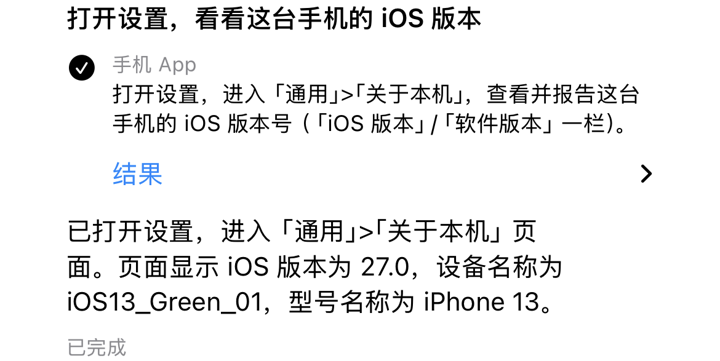
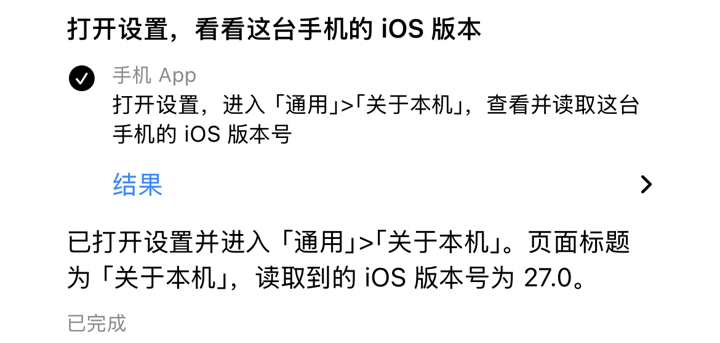
feat: 签名到期提醒与每晚自动重签、免费模型互为备用、结果跟随任务语言；文档补长期在线建议与免费模型截图

diff --git a/apps/ios/IPhoneUseRemoteTests/AgentTaskTests.swift b/apps/ios/IPhoneUseRemoteTests/AgentTaskTests.swift
@@ -329,18 +329,26 @@ final class ModelsPayloadTests: XCTestCase {
         return String(decoding: try encoder.encode(payload), as: UTF8.self)
     }
 
-    /// Out of the box: only the primary Zen model; fallback is opt-in.
+    /// Out of the box: the two free services, Zen first. Switching between
+    /// keyless free services costs nothing, so it needs no opt-in.
     func testDefaultIsTheFreeTier() throws {
         let payload = ModelSettings().payload { _ in nil }
-        XCTAssertEqual(try json(payload),
-                       #"{"assist":[{"base_url":"https://opencode.ai/zen/v1","format":"openai","key":"public","model":"big-pickle"}]}"#)
+        XCTAssertEqual(payload?.assist.map(\.model), ["big-pickle", "free"])
+        XCTAssertEqual(payload?.assist.first?.baseURL, "https://opencode.ai/zen/v1")
     }
 
-    func testFallbackRequiresExplicitChoiceAndSurvivesSaving() throws {
+    /// A paid service is never reached without the switch: not behind a free
+    /// first choice, and a paid first choice gets no fallback.
+    func testPaidFallbackRequiresExplicitChoiceAndSurvivesSaving() throws {
         var settings = ModelSettings()
-        XCTAssertEqual(settings.payload { _ in nil }?.assist.count, 1)
+        let paid = ModelProvider(kind: .openRouter)
+        settings.assist = [ModelProvider(kind: .zen), paid, ModelProvider(kind: .free)]
+        let keys: (String) -> String? = { $0 == paid.keyAccount ? "k" : nil }
+        XCTAssertEqual(settings.payload(key: keys)?.assist.map(\.model), ["big-pickle", "free"])
+        settings.assist = [ModelProvider(kind: .anthropic), ModelProvider(kind: .free)]
+        XCTAssertEqual(settings.payload { _ in "k" }?.assist.count, 1)
         settings.allowModelFallback = true
-        XCTAssertEqual(settings.payload { _ in nil }?.assist.count, 2)
+        XCTAssertEqual(settings.payload { _ in "k" }?.assist.count, 2)
         let restored = try JSONDecoder().decode(ModelSettings.self, from: JSONEncoder().encode(settings))
         XCTAssertTrue(restored.allowModelFallback)
         var object = try XCTUnwrap(JSONSerialization.jsonObject(with: JSONEncoder().encode(settings)) as? [String: Any])

diff --git a/apps/ios/IPhoneUseRemote/Sources/UnifiedAssistant.swift b/apps/ios/IPhoneUseRemote/Sources/UnifiedAssistant.swift
@@ -281,7 +281,7 @@ final class UnifiedAssistant: ObservableObject {
                     guard nativeID != nil else { task?.state = .needsReview; message = "上次提交结果未知，执行服务中没有可核对的请求 ID。请先检查手机。"; try save(); return }
                 }
                 if nativeID == nil {
-                    let returnNote = "\n先读屏并核对页面标题。若停在与本任务无关的分享、联系人选择或搜索页面，先取消或返回目标 App 主页；除非本任务明确要求，不选择联系人、不确认分享。每次导航后重新读屏。连续两次滚动仍未接近目标时，改用可见的搜索或导航入口，不要一直上下滚动。没有实际证据就说明未完成。\n完成后的返回由执行服务自动处理。先在目标页面完成读取和核验，再选择 DONE；不要为了返回助手而使用 BACK 或 HOME，以免丢失页面证据。"
+                    let returnNote = "\n先读屏并核对页面标题。若停在与本任务无关的分享、联系人选择或搜索页面，先取消或返回目标 App 主页；除非本任务明确要求，不选择联系人、不确认分享。每次导航后重新读屏。连续两次滚动仍未接近目标时，改用可见的搜索或导航入口，不要一直上下滚动。没有实际证据就说明未完成。\n完成后的返回由执行服务自动处理。先在目标页面完成读取和核验，再选择 DONE；不要为了返回助手而使用 BACK 或 HOME，以免丢失页面证据。\n最后的结果用与本任务相同的语言写。"
                     let phoneGoal = goal + returnNote
                     guard phoneGoal.count <= 2000 else { throw BrowserToolError.actionFailed("手机步骤过长，请缩短后重试") }
                     let phoneModels = try await PhoneModelRelay.shared.payload(taskModels)

diff --git a/site/public/remote.html b/site/public/remote.html
@@ -153,6 +153,15 @@
       </ul>
 
       <section class="du-faq">
+      <h2>长期在线：配一次就一直能连</h2>
+      <p>远程控制往往是急用，人又不在手机旁边。下面这些做好后，不用再碰被控手机：</p>
+      <ul>
+        <li><b>配对不会过期</b>：每次连接都会换一张新的 180 天凭证，半年内连过一次就一直有效。中继里手机的身份是永久的，断网恢复后会自动重连。</li>
+        <li><b>关掉 iOS 自动更新</b>（设置 › 通用 › 软件更新 › 自动更新）。自动更新会在夜里重启手机，而手机重启后，第一次解锁之前 iOS 不让任何东西运行，必须有人输一次密码。</li>
+        <li><b>保持充电</b>，自动锁定可以设成「永不」。本机控制被系统停掉后会自己恢复，不用管。</li>
+        <li><b>签名一年到期</b>：付费开发者账号签的 App 有效期一年。到期前在 Mac 上重新运行一次 <code>iphone-use setup-app</code> 即可，配对和设置都会保留。</li>
+      </ul>
+
         <h2>常见问题</h2>
         <h3>为什么不用 Tailscale？</h3>
         <p>iOS 同一时间只允许一个 VPN 生效，而本机控制本身就占用了这个位置。被控手机由 Mac 托管时，Tailscale 这类 VPN 仍然可以用来访问 Mac。</p>

diff --git a/site/public/en/remote.html b/site/public/en/remote.html
@@ -154,6 +154,15 @@
       </ul>
 
       <section class="du-faq">
+      <h2>Stay reachable: set it up once</h2>
+      <p>Remote control is usually urgent, and you are not next to the phone. With these done you never need to touch it:</p>
+      <ul>
+        <li><b>Pairing doesn't expire</b>: every connection swaps in a fresh 180-day credential, so a phone used at least once every six months stays paired. Its relay identity is permanent and reconnects after an outage.</li>
+        <li><b>Turn off iOS automatic updates</b> (Settings › General › Software Update › Automatic Updates). They restart the phone at night, and after a restart iOS runs nothing until someone enters the passcode once.</li>
+        <li><b>Keep it charging</b>; Auto-Lock can be Never. Local control restarts itself if iOS stops it.</li>
+        <li><b>Signing lasts a year</b>: an app signed with a paid developer account is valid for one year. Run <code>iphone-use setup-app</code> on the Mac again before then; pairing and settings are kept.</li>
+      </ul>
+
         <h2>FAQ</h2>
         <h3>Why not Tailscale?</h3>
         <p>iOS allows only one VPN at a time, and local control already uses that slot. When a Mac hosts the phone, a VPN such as Tailscale still works for reaching the Mac.</p>

diff --git a/apps/ios/IPhoneUseRemote/Sources/ModelSettings.swift b/apps/ios/IPhoneUseRemote/Sources/ModelSettings.swift
@@ -165,7 +165,11 @@ struct ModelSettings: Codable, Equatable, Sendable {
             (key(account) ?? "").trimmingCharacters(in: .whitespacesAndNewlines)
         }
         let enabled = self.assist.filter(\.enabled)
-        let selected = allowModelFallback ? enabled : Array(enabled.prefix(1))
+        // Moving between keyless free services costs nothing, so a free first
+        // choice falls back to the other free ones without the switch; a paid
+        // service is only ever tried when the person turned fallback on.
+        let selected = allowModelFallback ? enabled
+            : enabled.first.map { $0.needsKey ? [$0] : enabled.filter { !$0.needsKey } } ?? []
         let assist: [ModelsPayload.Assist] = selected.compactMap { provider in
             let base = provider.baseURL.trimmingCharacters(in: .whitespacesAndNewlines)
             let model = provider.model.trimmingCharacters(in: .whitespacesAndNewlines)

diff --git a/site/public/en/phone-agent.html b/site/public/en/phone-agent.html
@@ -97,7 +97,7 @@
       <h2>Notes</h2>
       <ul>
         <li>Local control takes iOS's single VPN slot, so it can't run alongside Tailscale or another VPN.</li>
-        <li>After a reboot, unlock the phone once before local control comes back.</li>
+        <li>After a reboot, unlock the phone once before local control comes back. Turn off iOS automatic updates, which restart the phone at night.</li>
         <li>Screenshots go to the model provider you configured. Don't run a task over a screen you don't want sent. See <a href="/en/privacy">Privacy &amp; Security</a>.</li>
       </ul>
 

diff --git a/site/public/phone-agent.html b/site/public/phone-agent.html
@@ -97,7 +97,7 @@
       <h2>注意</h2>
       <ul>
         <li>本机控制占用 iOS 唯一的 VPN 位置，和 Tailscale 等 VPN 不能同时开。</li>
-        <li>手机重启后要先解锁一次，本机控制才会恢复。</li>
+        <li>手机重启后要先解锁一次，本机控制才会恢复。建议关掉 iOS 自动更新，它会在夜里重启手机。</li>
         <li>截图会发给你配置的模型服务商。不想让某个画面被发出去，就别在它上面跑任务。详见<a href="/privacy">隐私与安全</a>。</li>
       </ul>
 

diff --git a/crates/server/src/onboarding.rs b/crates/server/src/onboarding.rs
@@ -527,6 +527,51 @@ fn print_status(target: &Target, status: &Value) {
     if let Some(line) = lock_line(status, prefers_chinese()) {
         println!("  {line}");
     }
+    if let Some(line) = signing_line(&target.instance.state_dir, now_secs(), prefers_chinese()) {
+        println!("  {line}");
+    }
+}
+
+/// Days left on the Phone Use app's signing, shown in its last 30: after it
+/// runs out the app no longer opens and the phone can't be reached remotely.
+fn signing_line(state_dir: &std::path::Path, now: u64, chinese: bool) -> Option<String> {
+    let note: Value = serde_json::from_slice(&std::fs::read(state_dir.join(server::setup::app::SIGNING_FILE)).ok()?).ok()?;
+    let expires_at = note["expires_at"].as_u64()?;
+    let days = expires_at.saturating_sub(now) / 86_400;
+    if days > 30 {
+        return None;
+    }
+    Some(match (expires_at <= now, chinese) {
+        (true, true) => "Phone Use 签名已过期：在 Mac 上运行 iphone-use setup-app 重签".into(),
+        (true, false) => "Phone Use signing has expired: run iphone-use setup-app on the Mac".into(),
+        (false, true) => format!("Phone Use 签名 {days} 天后到期：每晚任务会自动重签，也可以现在运行 iphone-use setup-app"),
+        (false, false) => format!("Phone Use signing expires in {days} days: the nightly job re-signs it, or run iphone-use setup-app now"),
+    })
+}
+
+fn now_secs() -> u64 {
+    std::time::SystemTime::now().duration_since(std::time::UNIX_EPOCH).map(|d| d.as_secs()).unwrap_or(0)
+}
+
+#[cfg(test)]
+mod signing_line_tests {
+    use super::signing_line;
+
+    #[test]
+    fn warns_only_in_the_last_month() {
+        let dir = std::env::temp_dir().join(format!("ipu-signing-{}", std::process::id()));
+        std::fs::create_dir_all(&dir).unwrap();
+        let now = 1_800_000_000;
+        assert!(signing_line(&dir, now, false).is_none(), "no note, no line");
+        let write = |at: u64| std::fs::write(dir.join(server::setup::app::SIGNING_FILE), format!(r#"{{"expires_at":{at}}}"#)).unwrap();
+        write(now + 90 * 86_400);
+        assert!(signing_line(&dir, now, false).is_none());
+        write(now + 10 * 86_400 + 5);
+        assert!(signing_line(&dir, now, false).unwrap().contains("10 days"));
+        write(now - 1);
+        assert!(signing_line(&dir, now, true).unwrap().contains("已过期"));
+        let _ = std::fs::remove_dir_all(&dir);
+    }
 }
 
 /// The lock-screen line of `iphone-use status`: shown when the phone will

diff --git a/crates/server/src/setup/app.rs b/crates/server/src/setup/app.rs
@@ -211,6 +211,7 @@ fn install(ctx: &Ctx, options: &Options) -> Result<(), String> {
         ));
     }
     term::ok("Installed: Phone Use");
+    record_signing(ctx.state_dir(), &bundle, &output);
     let _ = std::fs::remove_dir_all(&output);
 
     if full && !options.no_pair {
@@ -218,6 +219,31 @@ fn install(ctx: &Ctx, options: &Options) -> Result<(), String> {
     }
     next_steps(full);
     Ok(())
+}
+
+/// Where `iphone-use status` and the nightly job read when the installed
+/// app's signing runs out (a paid team's profile lasts a year).
+pub const SIGNING_FILE: &str = "app-signing.json";
+
+/// Note the installed app's profile expiry next to the instance's state. A
+/// profile that can't be read leaves the old note alone: a warning that is
+/// missing is better than one that is wrong.
+fn record_signing(state_dir: &Path, bundle: &str, app: &Path) {
+    let Some(expires_at) = profile_expiry(&app.join("embedded.mobileprovision")) else { return };
+    let note = serde_json::json!({ "bundle": bundle, "expires_at": expires_at, "installed_at": now_secs() });
+    if std::fs::write(state_dir.join(SIGNING_FILE), note.to_string()).is_ok() {
+        let days = expires_at.saturating_sub(now_secs()) / 86_400;
+        term::ok(&format!("Signing valid for {days} more days; the nightly job re-signs it in its last 21"));
+    }
+}
+
+/// A provisioning profile's ExpirationDate, as Unix seconds.
+fn profile_expiry(profile: &Path) -> Option<u64> {
+    let decoded = Command::new("security").args(["cms", "-D", "-i"]).arg(profile).output().ok()?;
+    if !decoded.status.success() { return None; }
+    let plist = plist::Value::from_reader_xml(decoded.stdout.as_slice()).ok()?;
+    let date = plist.as_dictionary()?.get("ExpirationDate")?.as_date()?;
+    std::time::SystemTime::from(date).duration_since(std::time::UNIX_EPOCH).ok().map(|d| d.as_secs())
 }
 
 /// IPHONE_USE_APP_SRC: a checkout to build from instead of the release asset.
@@ -597,4 +623,8 @@ mod tests {
         assert!(parse(&["--remote-only".into()]).unwrap().remote_only);
         assert!(parse(&["--bogus".into()]).is_err());
     }
+}
+
+fn now_secs() -> u64 {
+    std::time::SystemTime::now().duration_since(std::time::UNIX_EPOCH).map(|d| d.as_secs()).unwrap_or(0)
 }

diff --git a/scripts/test-auto-update.py b/scripts/test-auto-update.py
@@ -1,6 +1,6 @@
 #!/usr/bin/env python3
 """Fixture tests for scripts/auto-update.sh: the idle gate decides, the installer is a stub."""
-import http.server, json, os, plistlib, subprocess, sys, tempfile, threading
+import http.server, json, os, plistlib, subprocess, sys, tempfile, threading, time
 from pathlib import Path
 
 SCRIPT = Path(__file__).resolve().parent / "auto-update.sh"
@@ -277,6 +277,26 @@ with tempfile.TemporaryDirectory() as home:
     report("each upgraded instance is prebuilt, a skipped one is not",
            rc == 0 and sorted(prebuilt(log)) == ["default", "ix"] and "prebuild[ix]: finished (exit 0)" in err,
            f"rc={rc} prebuilt={prebuilt(log)} err={err.strip()[-300:]}")
+
+# Phone Use is re-signed in its signing's last weeks, whether or not a release
+# came out; one with time left is not touched.
+for name, days_left, expect_resign in [("signing ending in 10 days is re-signed", 10, True),
+                                       ("signing with 200 days left is left alone", 200, False)]:
+    with tempfile.TemporaryDirectory() as home:
+        log = Path(home) / "installed"
+        state = Path(home) / "state"; state.mkdir()
+        (state / "app-signing.json").write_text(json.dumps({"expires_at": int(time.time()) + days_left * 86400}))
+        fakebin = Path(home) / "bin"; fakebin.mkdir()
+        (fakebin / "iphone-use").write_text(f"#!/bin/sh\necho \"$@\" >> '{log}.resigned'\n"); (fakebin / "iphone-use").chmod(0o755)
+        srv = StatusServer({**base, "version": "0.6.0"})
+        write_plist(home, "com.leeguoo.iphone-use", srv.port)
+        try:
+            rc, err = run("v0.6.0", home=home, installed_log=log, extra_env={"PATH": f"{fakebin}:{os.environ['PATH']}"})
+        finally:
+            srv.close()
+        resigned = Path(f"{log}.resigned").read_text() if Path(f"{log}.resigned").exists() else ""
+        ok = rc == 0 and (("setup-app --instance default --no-pair" in resigned) == expect_resign)
+        report(name, ok, f"rc={rc} resigned={resigned!r} err={err.strip()[-200:]}")
 
 for name, env, payload, expect in [
     ("a failed upgrade is not prebuilt", {"AUTO_UPDATE_INSTALLER_CMD": "exit 3"}, base, []),
